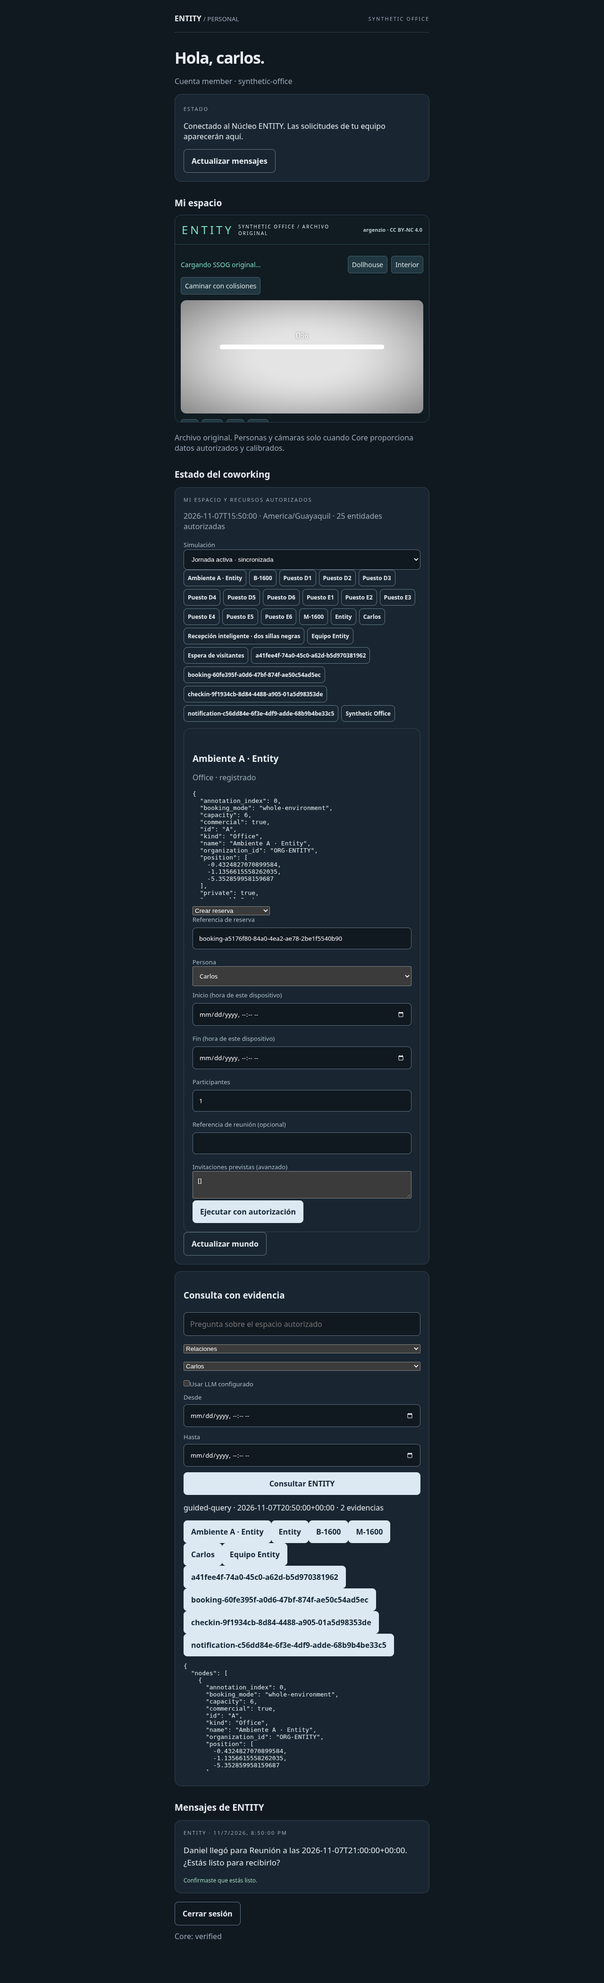
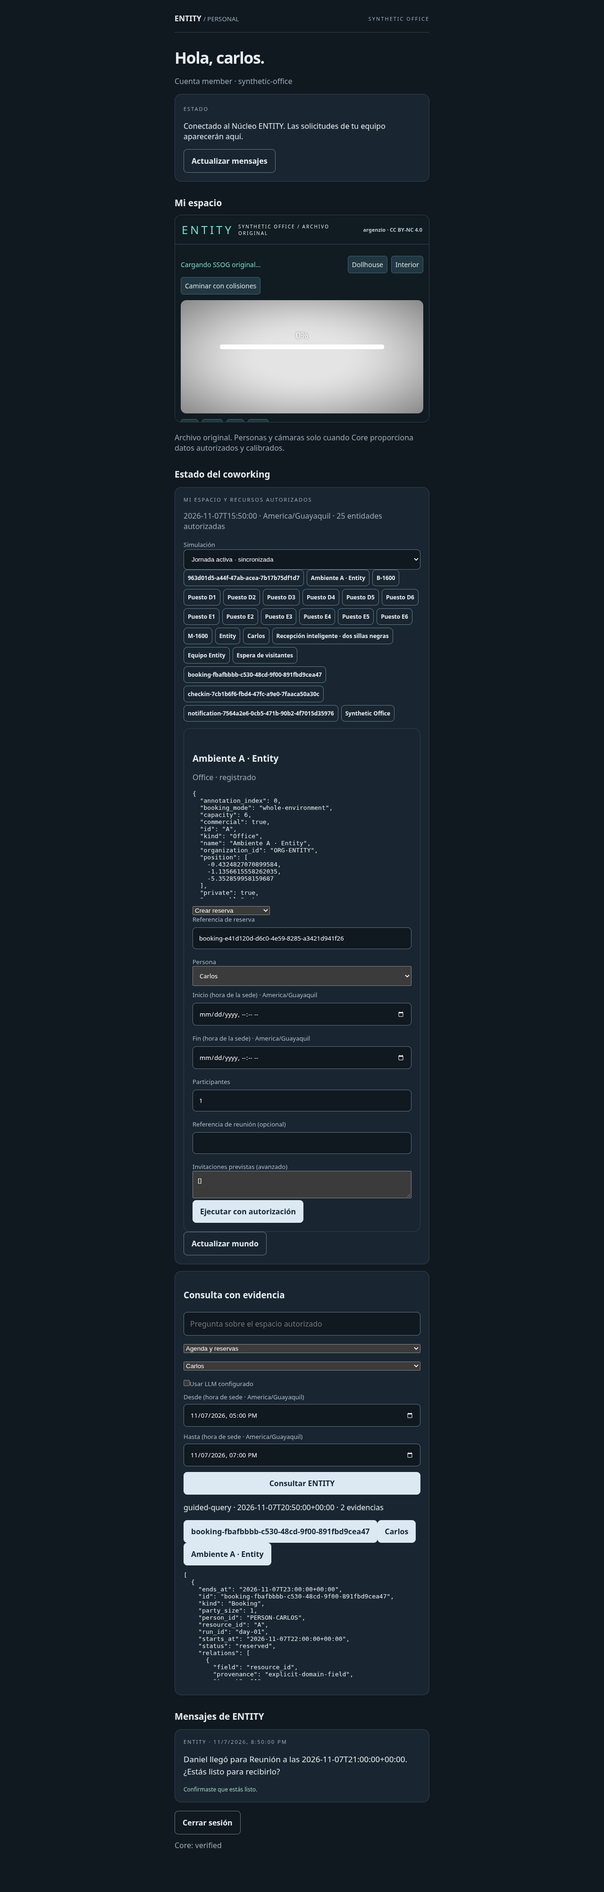
Keep action drafts stable under the Core clock and apply site civil time across shared clients

Changed region(s): [[0.2812, 0.0, 0.7188, 0.9666], [0.5938, 0.9042, 0.625, 0.9354], [0.5, 0.9042, 0.5312, 0.9354]]

diff --git a/apps/web/src/office/capability-form.js b/apps/web/src/office/capability-form.js
@@ -1,3 +1,4 @@
+import {siteDateTimeToUtc} from './site-time.js';
 // One client for declared Núcleo contracts; all business policy remains in Core.
 export const actionNames={
  'booking.create':'Crear reserva','booking.cancel':'Cancelar reserva','booking.extend':'Extender reserva','booking.reassign':'Reasignar reserva','booking.checkin':'Check-in de reserva','booking.no_show':'Registrar no-show',
@@ -7,9 +8,13 @@ export const actionNames={
  'zone.close':'Cerrar zona','zone.open':'Abrir zona','zone.assumeOccupancy':'Suponer ocupación (what-if)','clock.advance':'Avanzar reloj','entity.upsert':'Gestionar recurso','relation.add':'Añadir relación','account.create':'Crear cuenta',
  'intercom.reply':'Responder al visitante','intercom.timeout':'Registrar falta de respuesta','resource.getObject':'Consultar recurso','booking.getAvailability':'Consultar disponibilidad'
 };
-const fieldNames={booking_id:'Referencia de reserva',person_id:'Persona',resource_id:'Recurso',starts_at:'Inicio (hora de este dispositivo)',ends_at:'Fin (hora de este dispositivo)',party_size:'Participantes',meeting_id:'Referencia de reunión (opcional)',expected_guests:'Invitaciones previstas (avanzado)',response:'Respuesta',minutes:'Minutos',description:'Descripción',resolution:'Resolución',status:'Estado'};
+const fieldNames={booking_id:'Referencia de reserva',person_id:'Persona',resource_id:'Recurso',starts_at:'Inicio (hora de la sede)',ends_at:'Fin (hora de la sede)',party_size:'Participantes',meeting_id:'Referencia de reunión (opcional)',expected_guests:'Invitaciones previstas (avanzado)',response:'Respuesta',minutes:'Minutos',description:'Descripción',resolution:'Resolución',status:'Estado'};
 export function mountCapabilities(container,{descriptors,entity,getWorld,actor,send,onComplete,onError,disabled=false}){
  const available=descriptors.filter(c=>c.resource_id===entity.id&&actionNames[c.canonical_id]&&!(entity.reservable===false&&c.canonical_id==='booking.create'));
+ const current=getWorld(),signature=JSON.stringify([current.site_id,current.run_id,current.branch,current.historical?current.clock:null,actor?.actor,actor?.role,actor?.person_id,entity.id,available.map(c=>[c.capability_id,c.input_schema])]);
+ container.officeCapabilityDisabled=disabled;
+ if(container.officeCapabilitySignature===signature&&container.querySelector('form')){container.querySelector('form button').disabled=disabled||container.officeCapabilityBusy;return;}
+ container.officeCapabilitySignature=signature;container.officeCapabilityBusy=false;
  container.replaceChildren();if(!available.length){container.textContent='No hay acciones autorizadas para este recurso.';return;}
  const select=document.createElement('select');select.setAttribute('aria-label','Capacidad autorizada');
  for(const descriptor of available){const option=document.createElement('option');option.value=descriptor.capability_id;option.textContent=actionNames[descriptor.canonical_id];select.append(option);}
@@ -33,22 +38,22 @@ export function mountCapabilities(container,{descriptors,entity,getWorld,actor,s
    }
    input.name=key;input.dataset.schema=JSON.stringify(schema);input.required=descriptor.input_schema.required?.includes(key)||false;
    if(schema.minimum!==undefined)input.min=schema.minimum;if(schema.maximum!==undefined)input.max=schema.maximum;
-   label.append(input);fields.append(label);
+   if(schema.format==='date-time')label.append(document.createTextNode(' · '+getWorld().timezone));label.append(input);fields.append(label);
   }
  }
  select.onchange=build;build();
  form.onsubmit=async event=>{
-  event.preventDefault();button.disabled=true;
+  event.preventDefault();if(container.officeCapabilityDisabled||container.officeCapabilityBusy)return;container.officeCapabilityBusy=true;button.disabled=true;
   try{
    const descriptor=available.find(c=>c.capability_id===select.value),inputs={};
    for(const input of fields.querySelectorAll('[name]')){
     const schema=JSON.parse(input.dataset.schema);
     if(input.type==='checkbox')inputs[input.name]=input.checked;
-    else if(input.value!=='')inputs[input.name]=schema.type==='object'||schema.type==='array'?JSON.parse(input.value):schema.format==='date-time'?new Date(input.value).toISOString():input.type==='number'?Number(input.value):input.value;
+    else if(input.value!=='')inputs[input.name]=schema.type==='object'||schema.type==='array'?JSON.parse(input.value):schema.format==='date-time'?siteDateTimeToUtc(input.value,getWorld().timezone):input.type==='number'?Number(input.value):input.value;
    }
    const world=getWorld();const result=await send({id:crypto.randomUUID(),operation:descriptor.canonical_id,target:entity.id,inputs,branch:world.branch,expected_revision:world.revision});
-   await onComplete(result);
-  }catch(error){onError(error);}
-  finally{button.disabled=disabled;}
+   if(container.officeCapabilitySignature===signature)await onComplete(result);
+  }catch(error){if(container.officeCapabilitySignature===signature)onError(error);}
+  finally{if(container.officeCapabilitySignature===signature){container.officeCapabilityBusy=false;button.disabled=container.officeCapabilityDisabled;}}
  };
 }

diff --git a/apps/web/src/office/query-form.js b/apps/web/src/office/query-form.js
@@ -1,3 +1,4 @@
+import {siteDateTimeToUtc} from './site-time.js';
 // A single query client for desktop and personal projections. Core owns scope and facts.
 const labels={graph:'Relaciones',entity:'Ficha',location:'Ubicación confirmada',agenda:'Agenda y reservas',events:'Historia',camera_observations:'Observaciones de cámara',cameras_for_person:'Cámaras con evidencia',causes:'Causas y evidencias',impact:'Impacto',diff:'Cambios',metrics:'Métricas'};
 function node(tag,text){const n=document.createElement(tag);if(text)n.textContent=text;return n;}
@@ -10,7 +11,7 @@ export function mountQuery(element,{getWorld,getSelection,getBranch=()=> 'main',
  let lastSelection=getSelection();
  element.officeQueryRefresh=()=>{const chosen=entity.value;const current=getSelection();const entries=Object.values(getWorld().entities);entity.replaceChildren();for(const item of entries){const option=node('option',item.name||item.id);option.value=item.id;entity.append(option);}entity.value=current!==lastSelection?current:chosen;lastSelection=current;};
  const natural=node('input');natural.type='checkbox';natural.name='natural';const naturalLabel=node('label','Usar LLM configurado');naturalLabel.prepend(natural);
- const dates={};for(const name of ['from','to']){const label=node('label',name==='from'?'Desde':'Hasta');const input=node('input');input.type='datetime-local';input.name=name;dates[name]=input;label.append(input);form.append(label);}
+ const dates={};for(const name of ['from','to']){const label=node('label',(name==='from'?'Desde':'Hasta')+' (hora de sede · '+getWorld().timezone+')');const input=node('input');input.type='datetime-local';input.name=name;dates[name]=input;label.append(input);form.append(label);}
  const submit=node('button','Consultar ENTITY');form.prepend(question,kind,entity,naturalLabel);form.append(submit);element.append(form);const answer=node('div');answer.id='office-answer';element.append(answer);
  form.onsubmit=async event=>{
   event.preventDefault();submit.disabled=true;
@@ -18,7 +19,8 @@ export function mountQuery(element,{getWorld,getSelection,getBranch=()=> 'main',
    if(natural.checked&&(getAt()||getBranch()!=='main'))throw Error('Para consultar un instante histórico o un escenario, utiliza la consulta guiada con su contexto explícito.');
    const context=()=>{const w=getWorld();return JSON.stringify([w?.site_id,w?.run_id,w?.branch,w?.historical,getAt()]);};const requestedContext=context();
    const query={kind:kind.value,entity_id:entity.value||null,branch:getBranch()};if(getAt())query.at=getAt();
-   for(const [name,input]of Object.entries(dates))if(input.value)query[name]=new Date(input.value).toISOString();
+   for(const [name,input]of Object.entries(dates))if(input.value)query[name]=siteDateTimeToUtc(input.value,getWorld().timezone);
+   answer.replaceChildren(node('p','Consultando el modelo del mundo…'));
    const trace=await send({id:crypto.randomUUID(),question:question.value||('Consulta guiada: '+labels[kind.value]),...(!natural.checked?{query}:{})});
    if(context()!==requestedContext)return;
    if(trace.status!=='verified')throw Error('ENTITY: '+trace.status+' '+JSON.stringify(trace.error||{}));
@@ -26,6 +28,6 @@ export function mountQuery(element,{getWorld,getSelection,getBranch=()=> 'main',
    const references=new Set();const visit=value=>{if(typeof value==='string'&&getWorld().entities[value])references.add(value);else if(Array.isArray(value))value.forEach(visit);else if(value&&typeof value==='object')Object.values(value).forEach(visit);};visit(result.result);
    for(const id of references){const button=node('button',getWorld().entities[id].name||id);button.type='button';button.onclick=()=>onSelect?.(id);answer.append(button);}
    const data=node('pre');data.textContent=JSON.stringify(result.result,null,2);answer.append(data);
-  }catch(error){onError(error);}finally{submit.disabled=false;}
+  }catch(error){answer.replaceChildren(node('p','No se pudo verificar esta consulta.'));onError(error);}finally{submit.disabled=false;}
  };
 }

diff --git a/apps/web/personal.html b/apps/web/personal.html
@@ -54,7 +54,7 @@ async function selectEntity(id){
  const facts=el('pre','');facts.dataset.personalFacts='true';facts.style.whiteSpace='pre-wrap';facts.textContent=JSON.stringify(entity,null,2);details.append(facts);
  const holder=el('div','');details.append(holder);
  const descriptors=await request('/v1/sites/'+encodeURIComponent(actor.site_id)+'/capabilities?resource_id='+encodeURIComponent(id));
- if(!personalWorld||personalWorld.run_id!==context||selectedEntity!==id)return;mountCapabilities(holder,{descriptors,entity,getWorld:()=>personalWorld,actor:{person_id:actor.person_id},
+ if(!personalWorld||personalWorld.run_id!==context||selectedEntity!==id)return;mountCapabilities(holder,{descriptors,entity,getWorld:()=>personalWorld,actor,
   send:body=>request('/v1/sites/'+encodeURIComponent(actor.site_id)+'/runs/'+encodeURIComponent(personalWorld.run_id)+'/commands',{method:'POST',body:JSON.stringify(body)}),
   onComplete:async result=>{notice('Core: '+result.status);await loadWorld();await selectEntity(id);},onError:error=>notice(error.message,true)});
 }

diff --git a/docs/CHATGPT-CODEX-HANDOFF.md b/docs/CHATGPT-CODEX-HANDOFF.md
@@ -101,3 +101,11 @@ Arranque real con ENTITY_BUILD_CA_FILE=/etc/ssl/certs/ca-certificates.crt bash s
 smoke-office-docker.py verifica además una ejecución técnica aislada con reloj en marcha: stop real, lectura del último reloj/estado desde SQLite detenido, start real y comprobación de pausa sin tiempo offline ni cambios de entidades. PASS; día original101entidades/17eventos, historial exacto y Core8000preservado. Hash de cada archivo Python dentro de la imagen comparado con la fuente actual: coincide; imageID y hashes en docker-office.json. La ejecución técnica no cambia active_run_id.
 Regresión completa después del inventario:84PASS59.053s. E2E posterior con inventario añadido PASS1280/390, tres clientes, filtros/grafo/privacidad; reinicio HTTP110entidades/19eventos y backup íntegro. Durante revisión adicional se reprodujo un defecto nuevo: cambios de zona con el MISMO timestamp hacían que el filtro usara el último estado de ese instante. Prueba dirigida FAIL conservada en runtime; corrección reconstruye desde snapshot y secuencia exacta del evento, no desde el cierre del timestamp. test_office_memory.py:2PASS1.785s, informe publicado. La UI aclara que el scrubbing por hora muestra el cierre del instante; no promete distinguir dos instantes que comparten hora. La regresión completa de84 anterior a esta corrección no se atribuye al árbol posterior; CI debe verificarlo.
 Código/documentación/artefactos en rama autorizada y PR#2, sin merge ni aprobación. Quedan calibración C/D/E/rutas completas y cierre espacial integral, además de los límites de hardware/servicios externos ya documentados. No se autoriza ni inicia Fase10/11.
+
+
+## 2026-11-08 — Codex: cierre del lote de interacción en vivo
+E2E real1280/390 PASS después de reproducir y corregir pérdida del formulario ante eventos SSE del reloj. Antes, render desmontaba los campos en cada tick; ahora conserva el formulario mientras sede/run/entidad/contrato/contexto siguen iguales, actualiza bloqueo histórico y toma revisión nueva de Core al ejecutar. No conserva el formulario al cambiar de contexto. form-live-regression-before.txt conserva el fallo previo y reception-http-browser.json confirma pending_form_preserved_across_live_core_ticks. Backend no cambia en este lote.
+Fechas de capacidades y consultas usan timezone de la sede, como reloj e historial. E2E con navegadorUTC yAsia/Tokyo verifica17:00Guayaquil→22:00UTC en solicitud de reserva, persistencia en agendaCore y rango consultado. Respuestas anteriores se retiran mientras otra consulta está pendiente. Prueba inicial deagenda estaba leyendo una respuesta de grafo anterior que contenía el mismo ID: se corrige el aserto esperando la estructura y reserva de la agenda nueva, sin falsear datos.
+CI general42443600317 yPR42443603980Success sobree72a782, incluida entrega desdepaquetelimpio; espacial42443600314Success sobreSSOGoriginal, dos cámaras,22muestras y5poses, observaciónUI e historial. Original42443600323/Pages42443600335fallaron por aserto móvil: se esperaba orientación según ancho de página, pero el producto la elige según aspecto real del canvas. Desktop sí verificó pose y encuadre completo. Se corrige la expectativa del test y se añade cámara/captura en fallo; falta nueva conclusión remota. No se presenta ese fallo como fallo de permisos ni se afirma todavíaPagesCI verde.
+Paquete fuente c3879e3 instalado realmente enotra carpeta convenvnuevo/npmci: recepción/consultas/reserva/replay/historia/reinicio110entidades/19eventos ybackupPASS; checksums verificados ysincredenciales. clean-package.json vincula eseSHA concreto, no el árbolposterior. ImagenDockeractual deCore, con última correccióntemporal, comparadaarchivoaarchivo; reinicio mientrasreproduce conserva último reloj/estado ypausaPASS; díaoriginal102entidades/19eventos. docker-office.json incluyeIDimagen/hashes. Arranqueweb yAPI operativoen4175/8010; Coreanterior8000preservado.
+Rama autorizada/PR#2 sinfusionar; fase09EN CURSO. ObservedInventory añade dos grupos sinanotación, perono resuelve su correspondencia C/D/E. La vista completa confirma cuatrogrupos localizados, sinprueba aún dequintaagrupación: no se inventa mobiliario ni se reasignanA/B confirmadas. Rutas completas pendientes; no dar porcerrado elflujoespacial integral. Continúan límites deCorepúblicoHTTPS/Push/vozAndroid/hardware/LLMremoto. Fases10/11noiniciadas porCodex.

diff --git a/docs/PHASE-09-PROGRESS.md b/docs/PHASE-09-PROGRESS.md
@@ -128,3 +128,11 @@ Arranque real con ENTITY_BUILD_CA_FILE=/etc/ssl/certs/ca-certificates.crt bash s
 smoke-office-docker.py verifica además una ejecución técnica aislada con reloj en marcha: stop real, lectura del último reloj/estado desde SQLite detenido, start real y comprobación de pausa sin tiempo offline ni cambios de entidades. PASS; día original101entidades/17eventos, historial exacto y Core8000preservado. Hash de cada archivo Python dentro de la imagen comparado con la fuente actual: coincide; imageID y hashes en docker-office.json. La ejecución técnica no cambia active_run_id.
 Regresión completa después del inventario:84PASS59.053s. E2E posterior con inventario añadido PASS1280/390, tres clientes, filtros/grafo/privacidad; reinicio HTTP110entidades/19eventos y backup íntegro. Durante revisión adicional se reprodujo un defecto nuevo: cambios de zona con el MISMO timestamp hacían que el filtro usara el último estado de ese instante. Prueba dirigida FAIL conservada en runtime; corrección reconstruye desde snapshot y secuencia exacta del evento, no desde el cierre del timestamp. test_office_memory.py:2PASS1.785s, informe publicado. La UI aclara que el scrubbing por hora muestra el cierre del instante; no promete distinguir dos instantes que comparten hora. La regresión completa de84 anterior a esta corrección no se atribuye al árbol posterior; CI debe verificarlo.
 Código/documentación/artefactos en rama autorizada y PR#2, sin merge ni aprobación. Quedan calibración C/D/E/rutas completas y cierre espacial integral, además de los límites de hardware/servicios externos ya documentados. No se autoriza ni inicia Fase10/11.
+
+
+## 2026-11-08 — Codex: cierre del lote de interacción en vivo
+E2E real1280/390 PASS después de reproducir y corregir pérdida del formulario ante eventos SSE del reloj. Antes, render desmontaba los campos en cada tick; ahora conserva el formulario mientras sede/run/entidad/contrato/contexto siguen iguales, actualiza bloqueo histórico y toma revisión nueva de Core al ejecutar. No conserva el formulario al cambiar de contexto. form-live-regression-before.txt conserva el fallo previo y reception-http-browser.json confirma pending_form_preserved_across_live_core_ticks. Backend no cambia en este lote.
+Fechas de capacidades y consultas usan timezone de la sede, como reloj e historial. E2E con navegadorUTC yAsia/Tokyo verifica17:00Guayaquil→22:00UTC en solicitud de reserva, persistencia en agendaCore y rango consultado. Respuestas anteriores se retiran mientras otra consulta está pendiente. Prueba inicial deagenda estaba leyendo una respuesta de grafo anterior que contenía el mismo ID: se corrige el aserto esperando la estructura y reserva de la agenda nueva, sin falsear datos.
+CI general42443600317 yPR42443603980Success sobree72a782, incluida entrega desdepaquetelimpio; espacial42443600314Success sobreSSOGoriginal, dos cámaras,22muestras y5poses, observaciónUI e historial. Original42443600323/Pages42443600335fallaron por aserto móvil: se esperaba orientación según ancho de página, pero el producto la elige según aspecto real del canvas. Desktop sí verificó pose y encuadre completo. Se corrige la expectativa del test y se añade cámara/captura en fallo; falta nueva conclusión remota. No se presenta ese fallo como fallo de permisos ni se afirma todavíaPagesCI verde.
+Paquete fuente c3879e3 instalado realmente enotra carpeta convenvnuevo/npmci: recepción/consultas/reserva/replay/historia/reinicio110entidades/19eventos ybackupPASS; checksums verificados ysincredenciales. clean-package.json vincula eseSHA concreto, no el árbolposterior. ImagenDockeractual deCore, con última correccióntemporal, comparadaarchivoaarchivo; reinicio mientrasreproduce conserva último reloj/estado ypausaPASS; díaoriginal102entidades/19eventos. docker-office.json incluyeIDimagen/hashes. Arranqueweb yAPI operativoen4175/8010; Coreanterior8000preservado.
+Rama autorizada/PR#2 sinfusionar; fase09EN CURSO. ObservedInventory añade dos grupos sinanotación, perono resuelve su correspondencia C/D/E. La vista completa confirma cuatrogrupos localizados, sinprueba aún dequintaagrupación: no se inventa mobiliario ni se reasignanA/B confirmadas. Rutas completas pendientes; no dar porcerrado elflujoespacial integral. Continúan límites deCorepúblicoHTTPS/Push/vozAndroid/hardware/LLMremoto. Fases10/11noiniciadas porCodex.

diff --git a/docs/AGENT-WORKLOG.md b/docs/AGENT-WORKLOG.md
@@ -380,3 +380,11 @@ Código/documentación/artefactos en rama autorizada y PR#2, sin merge ni aproba
 
 ### 2026-11-08 — Codex, corrección de orientación de cámara en el SDK
 La captura77d36de móvil ya muestra el conjunto completo sin paneles, pero desktop aún recortaba extremos: vecToAngles delSDKnormaliza yaw a0 si la componente horizontal al mirar vertical es menor que1e-4. El desplazamiento de objetivo.0001 no superaba ese umbral. Se utiliza un objetivo de cámara.05 apartado (no coordenada de recurso) y el test comprueba ahora up vector, altura final y nearClip, además de carga. Nueva captura pendiente; no basta el anterior PASS de carga para declarar encuadredesktop corregido.
+
+
+## 2026-11-08 — Codex: cierre del lote de interacción en vivo
+E2E real1280/390 PASS después de reproducir y corregir pérdida del formulario ante eventos SSE del reloj. Antes, render desmontaba los campos en cada tick; ahora conserva el formulario mientras sede/run/entidad/contrato/contexto siguen iguales, actualiza bloqueo histórico y toma revisión nueva de Core al ejecutar. No conserva el formulario al cambiar de contexto. form-live-regression-before.txt conserva el fallo previo y reception-http-browser.json confirma pending_form_preserved_across_live_core_ticks. Backend no cambia en este lote.
+Fechas de capacidades y consultas usan timezone de la sede, como reloj e historial. E2E con navegadorUTC yAsia/Tokyo verifica17:00Guayaquil→22:00UTC en solicitud de reserva, persistencia en agendaCore y rango consultado. Respuestas anteriores se retiran mientras otra consulta está pendiente. Prueba inicial deagenda estaba leyendo una respuesta de grafo anterior que contenía el mismo ID: se corrige el aserto esperando la estructura y reserva de la agenda nueva, sin falsear datos.
+CI general42443600317 yPR42443603980Success sobree72a782, incluida entrega desdepaquetelimpio; espacial42443600314Success sobreSSOGoriginal, dos cámaras,22muestras y5poses, observaciónUI e historial. Original42443600323/Pages42443600335fallaron por aserto móvil: se esperaba orientación según ancho de página, pero el producto la elige según aspecto real del canvas. Desktop sí verificó pose y encuadre completo. Se corrige la expectativa del test y se añade cámara/captura en fallo; falta nueva conclusión remota. No se presenta ese fallo como fallo de permisos ni se afirma todavíaPagesCI verde.
+Paquete fuente c3879e3 instalado realmente enotra carpeta convenvnuevo/npmci: recepción/consultas/reserva/replay/historia/reinicio110entidades/19eventos ybackupPASS; checksums verificados ysincredenciales. clean-package.json vincula eseSHA concreto, no el árbolposterior. ImagenDockeractual deCore, con última correccióntemporal, comparadaarchivoaarchivo; reinicio mientrasreproduce conserva último reloj/estado ypausaPASS; díaoriginal102entidades/19eventos. docker-office.json incluyeIDimagen/hashes. Arranqueweb yAPI operativoen4175/8010; Coreanterior8000preservado.
+Rama autorizada/PR#2 sinfusionar; fase09EN CURSO. ObservedInventory añade dos grupos sinanotación, perono resuelve su correspondencia C/D/E. La vista completa confirma cuatrogrupos localizados, sinprueba aún dequintaagrupación: no se inventa mobiliario ni se reasignanA/B confirmadas. Rutas completas pendientes; no dar porcerrado elflujoespacial integral. Continúan límites deCorepúblicoHTTPS/Push/vozAndroid/hardware/LLMremoto. Fases10/11noiniciadas porCodex.

diff --git a/docs/PROJECT-STATUS.md b/docs/PROJECT-STATUS.md
@@ -4,7 +4,7 @@
 
 ## Estado actual comprobado — Fase 09, 2026-11-07
 
-La rama codex/phase-09-autonomous-plan conserva las fases anteriores y aportaciones de ChatGPT. Último lote local:84pruebas backendPASS59.053s, antes de la última corrección temporal (2dirigidasPASS1.785s; CI posterior pendiente),11NodePASS y buildPASS. Kiosco/personal HTTPreal1280/390PASS: invitación, respuestaCarlos, reservaA, grafo filtrado, cierre de sesión sin respuesta tardía, jornada activa/replay/play/pause compartidos. Reinicio de proceso conserva110entidades/19eventos, backup íntegro. El contenedor8010 se reconstruyó y conservó101entidades/17eventos en su última prueba; arranque completo porUIDdelanfitriónPASS, frontend4175, reinicio de reloj en marcha e imagen comparada con fuentePASS; paquete yCI/Pages nuevos pendientes. Memoria filtra relaciones históricas y E2E confirma tres clientes (José/Carlos/kiosco) siguiendo el mismo replay.
+La rama codex/phase-09-autonomous-plan conserva las fases anteriores y aportaciones de ChatGPT. Último lote local:84pruebas backendPASS locales; la corrección temporal posterior pasa2dirigidas yCI general/PR e72a782Success (42443600317/42443603980),11NodePASS y buildPASS. Kiosco/personal HTTPreal1280/390PASS: invitación, respuestaCarlos, reservaA, grafo filtrado, cierre de sesión sin respuesta tardía, jornada activa/replay/play/pause compartidos. Reinicio de proceso conserva110entidades/19eventos, backup íntegro. El contenedor8010 se reconstruyó y conservó102entidades/19eventos en su última prueba; arranque completo porUIDdelanfitriónPASS, frontend4175, reinicio de reloj en marcha e imagen comparada con fuentePASS; paquete c3879e3 limpioPASS; últimoCI general/espaciale72a782verde, Pages/original requiere corregir aserto móvil y repetir. Memoria filtra relaciones históricas y E2E confirma tres clientes (José/Carlos/kiosco) siguiendo el mismo replay.
 
 SSOG/voxels originales conservados. La evidencia publicada previa ya confirma un tramo de pasillo físico (22muestras libres), cinco poses Core/GLB coincidentes y seguimiento anónimo por dos cámaras con recuperación histórica. Inventario geométrico C/D/E y rutas completas aún incompletos; no hay posiciones inventadas. Recepción identificada por las dos sillas negras. La vista superior de inspección funciona; botón Dollhouse del producto requiere integrar ese encuadre. Los sensores/actuadores y personas de jornada son sintéticos; no son validación física. Android físico, voz real, WebPush, LLM remoto y Core públicoHTTPS no acreditados.
 

diff --git a/docs/PHASE-BOARD.md b/docs/PHASE-BOARD.md
@@ -27,7 +27,7 @@ Cada actualización debe contestar: ¿qué funciona hoy?, ¿qué se probó?, ¿q
 ## Fase 09 — Nuevo alcance autorizado (2026-11-07)
 | Fase | Nombre | Estado | Evidencia / siguiente paso |
 |---|---|---|---|
-| 09 | Synthetic Office: simulación integral de inteligencia espacial | EN CURSO | SSOG original integrado con evidencia1440/390px (baf37b3); backend integrado84tests PASS (antes del último ajuste temporal, dirigido2PASS; CI pendiente); recepción/móvil/reserva/consulta, replayactivo de tresclientes, filtros temporales y reinicio Docker comprobados. Export Vite NO requerido ni bloqueante; topología de reunión, dos oficinas privadas, coworking individual, recepción y espera fijada por operador. Gates completos todavía pendientes; progreso en docs/PHASE-09-PROGRESS.md. Autorización excepcional para completar 09.1–09.9 autónomamente sin revisión humana entre subfases; revisión humana al final. |
+| 09 | Synthetic Office: simulación integral de inteligencia espacial | EN CURSO | SSOG original integrado con evidencia1440/390px (baf37b3); backend integrado84tests PASS yCI general/PR e72a782Success; Pages pendiente del aserto móvil corregido; recepción/móvil/reserva/consulta, replayactivo de tresclientes, filtros temporales y reinicio Docker comprobados. Export Vite NO requerido ni bloqueante; topología de reunión, dos oficinas privadas, coworking individual, recepción y espera fijada por operador. Gates completos todavía pendientes; progreso en docs/PHASE-09-PROGRESS.md. Autorización excepcional para completar 09.1–09.9 autónomamente sin revisión humana entre subfases; revisión humana al final. |
 
 Nota: el tablero anterior puede estar desactualizado frente a ramas de Codex aún no fusionadas. Verificar ramas, commits y CI antes de cambiar estados históricos.
 ## Auditoría transversal del MVP — 2026-11-07
